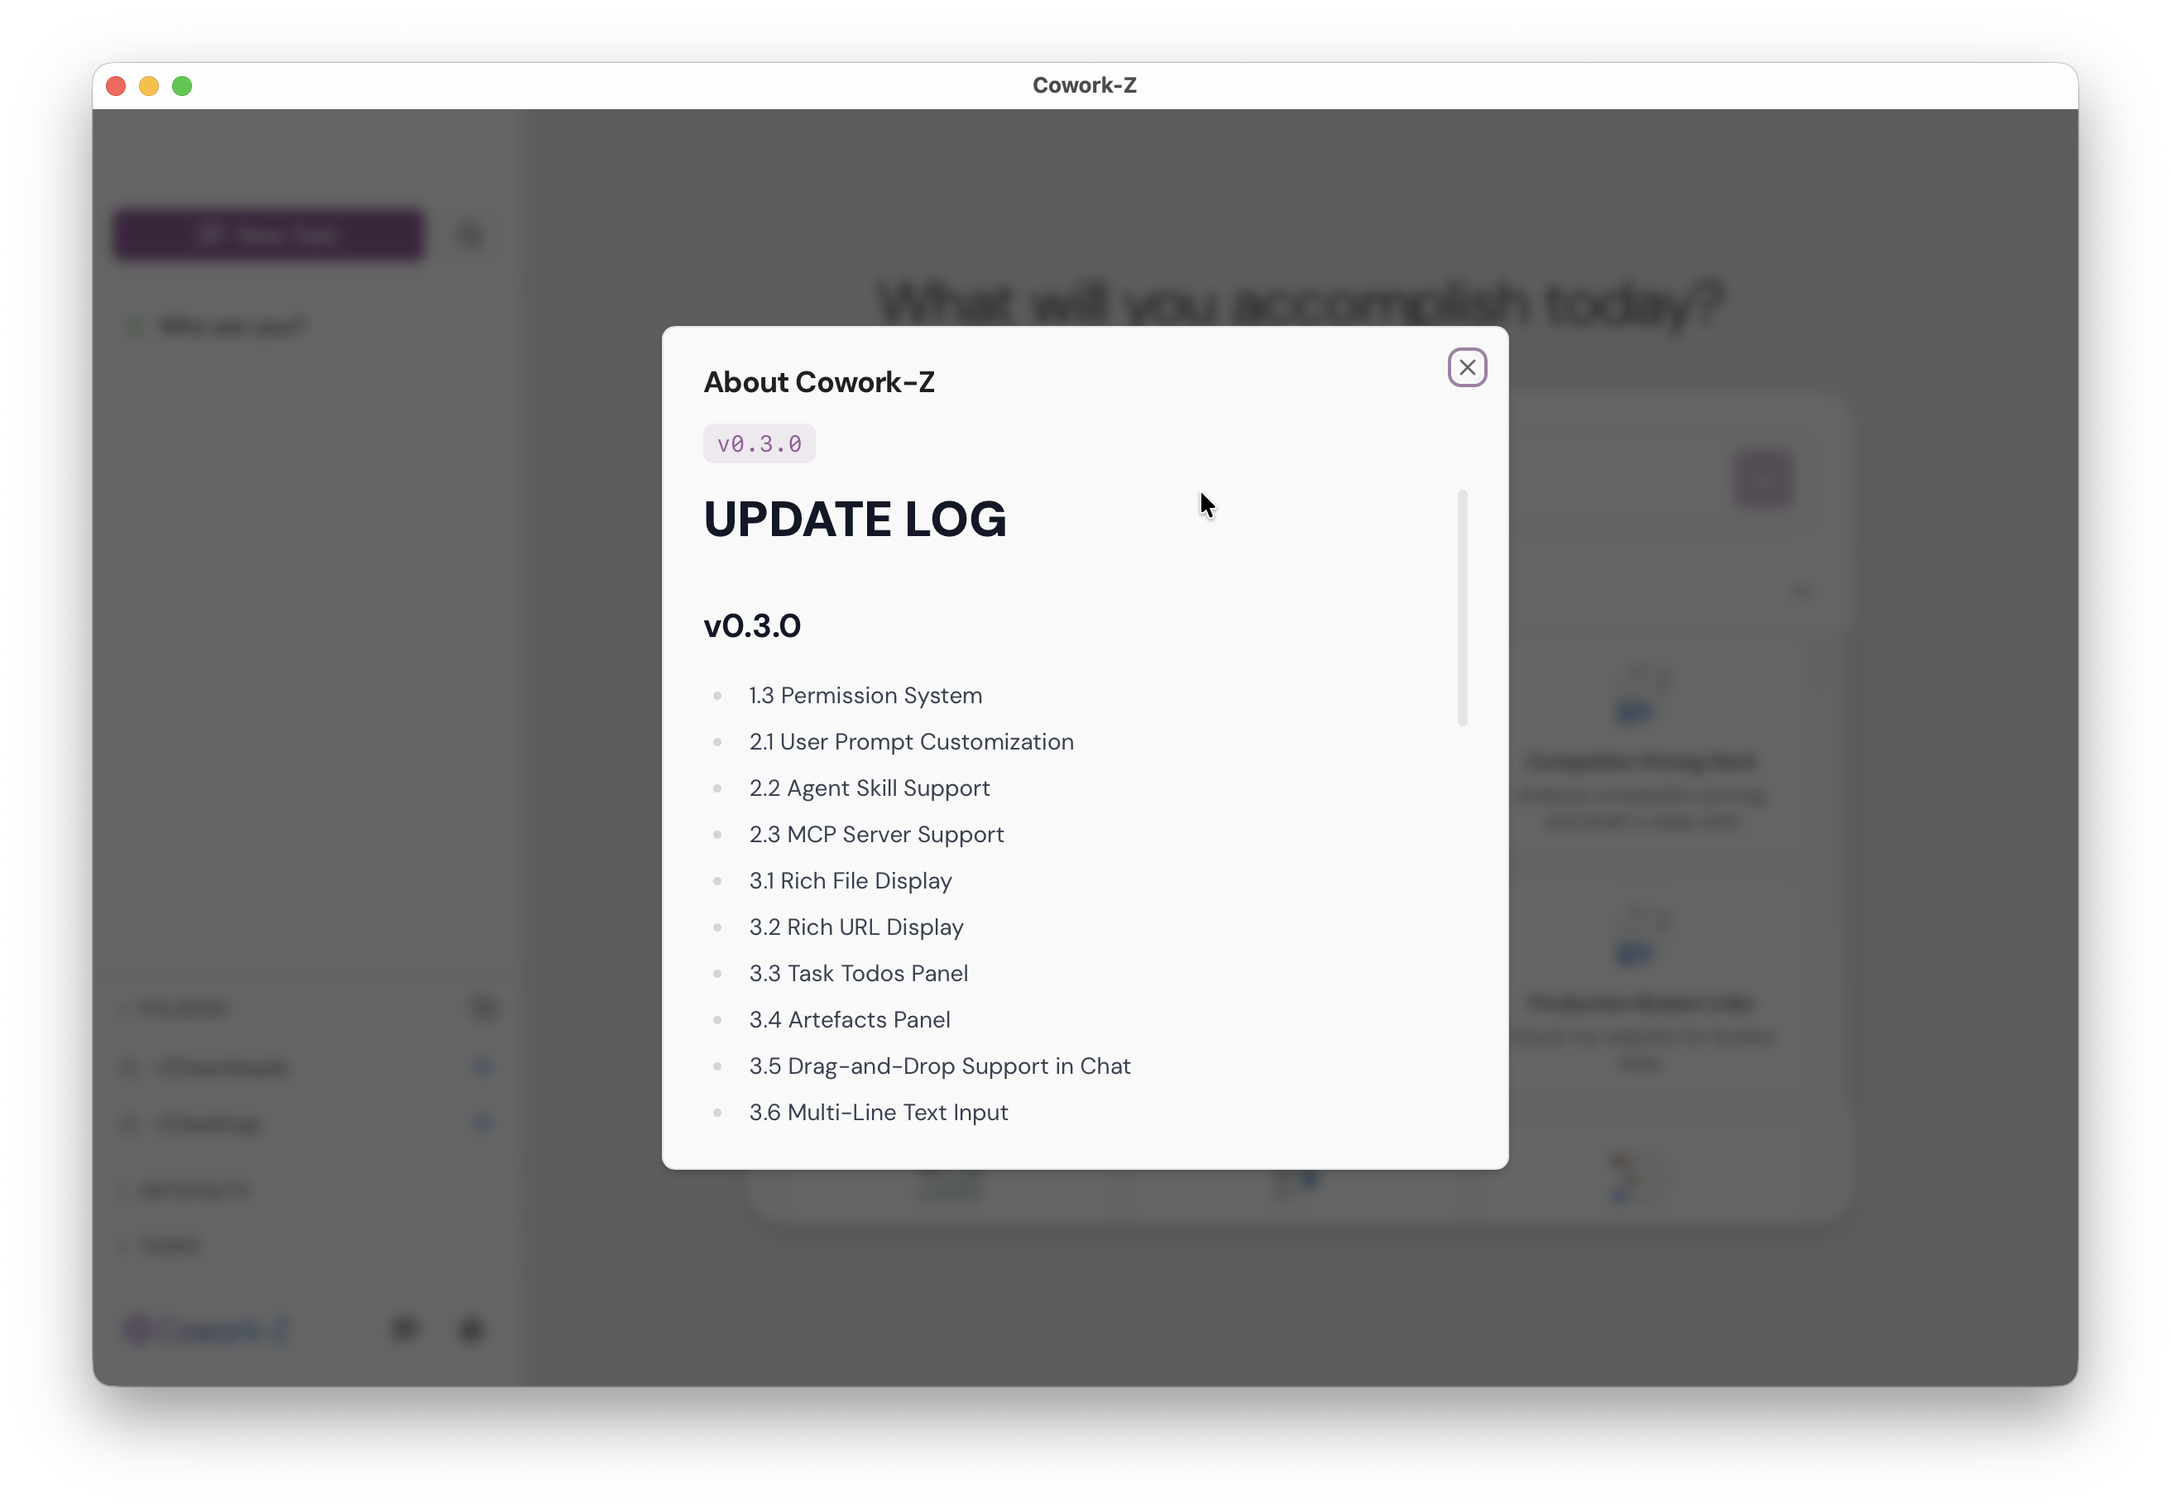
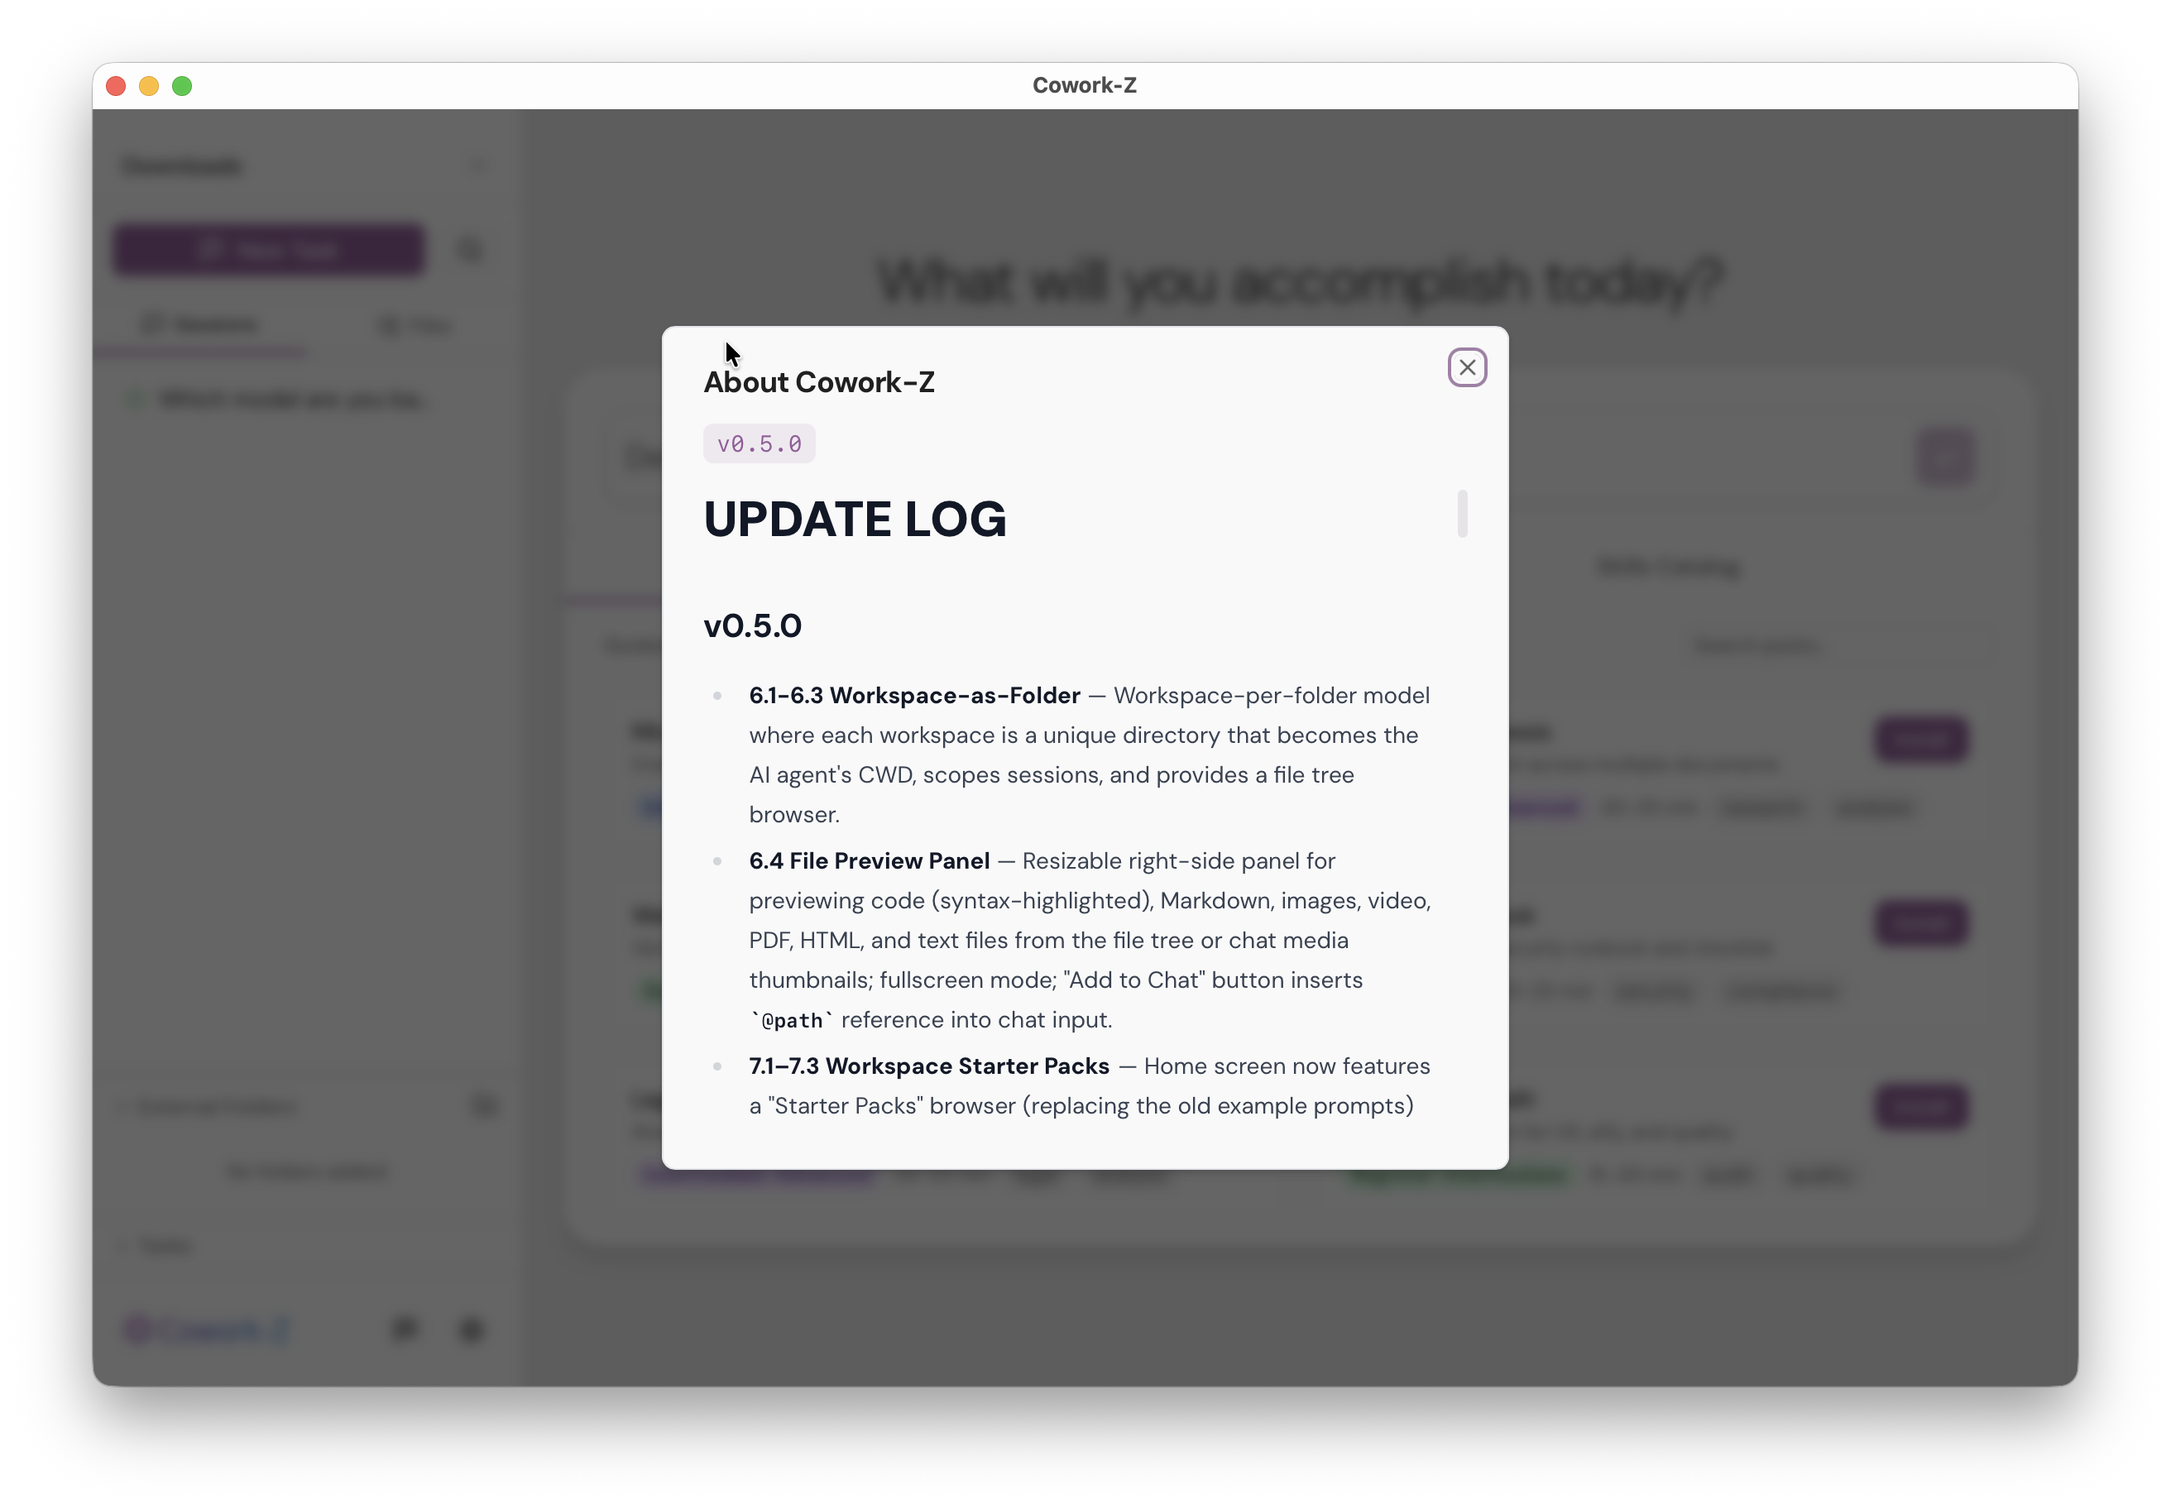
doc: Update product vision and README with screenshots

diff --git a/README.md b/README.md
@@ -5,7 +5,7 @@
 <h1 align="center">Cowork-Z</h1>
 
 <p align="center">
-  <strong>A local-first desktop agent that brings AI to your files and workflows — without compromising privacy.</strong>
+  <strong>A local-first AI workspace that keeps your work private, organized, and ready to run.</strong>
 </p>
 
 <p align="center">
@@ -22,36 +22,34 @@
 
 ## Why Cowork-Z?
 
-Most AI tools force an uncomfortable choice: **upload your sensitive work to cloud services, or forgo AI assistance entirely**.
+Most AI tools force you to choose between capability and privacy — and leave you rebuilding context from scratch every time. Cowork-Z takes a different approach.
 
-Cowork-Z eliminates this tradeoff. It's a desktop app where AI agents run entirely on your machine — accessing your local files, executing commands in your environment, and integrating with your tools — all while keeping your data under your control.
-
-Whether you're a developer protecting proprietary code, a researcher working with sensitive data, or a team that needs auditability and control, Cowork-Z delivers AI-powered productivity without the privacy compromise.
+Each project lives in its own workspace: one folder, all your files, sessions, and agent history in one place. Your data never leaves your machine. And a built-in Skills Catalog and Starter Packs mean you're productive in minutes, not hours.
 
 ---
 
 ## Features
 
-### Multi-Provider Flexibility
+### 🔒 Private by design
+
+#### Multi-Provider Flexibility
 
 Connect to **13+ AI providers** and switch between them at any time:
 
-**Direct API** — Anthropic, OpenAI, Google Gemini, xAI, DeepSeek, Z.AI
-**Cloud Platforms** — AWS Bedrock, Azure AI Foundry
-**Local Models** — Ollama
+**Direct API** — Anthropic, OpenAI, Google Gemini, xAI, DeepSeek, Z.AI\
+**Cloud Platforms** — AWS Bedrock, Azure AI Foundry\
+**Local Models** — Ollama\
 **Proxy Services** — OpenRouter, LiteLLM
 
 Credentials are stored in the **OS Keychain** (macOS Keychain, Windows Credential Manager, Linux Secret Service) — never in plain text files.
 
 <p align="center">
-  <img src="assets/Screenshot_Settings.png" alt="Cowork-Z — Provider Settings" width="700" />
-  <br />
-  <em>Choose from 13+ AI providers — credentials stored securely in the OS Keychain</em>
+  <img src="assets/Screenshot_MultiProvider.png" alt="Cowork-Z — Provider Settings" width="700" />
 </p>
 
-### Sandboxed Permissions
+#### Sandboxed Permissions
 
-You control exactly what the agent can access:
+Your files never leave your machine. The agent reads and writes locally — nothing is uploaded to cloud servers. You control exactly what it can access:
 
 - **Folder-level access controls** — grant read or read-write per directory
 - **Runtime permission prompts** — if the agent needs a folder you haven't approved, it asks first
@@ -59,38 +57,76 @@ You control exactly what the agent can access:
 
 <p align="center">
   <img src="assets/Screenshot_PermissionRequest.png" alt="Cowork-Z — Runtime permission dialog" width="700" />
-  <br />
-  <em>The agent asks before accessing directories outside your approved list</em>
 </p>
 
-### Rich Chat Experience
+---
+
+### 📁 One project at a time
+
+#### Workspace-per-Project
+
+Work is organized around workspaces — one folder, one focus. Each workspace holds its own files, chat sessions, permissions, and agent history in one place. Switch workspaces to switch projects; nothing bleeds between them.
+
+- **File tree browser** — lazy-loaded sidebar tree with real-time filesystem watching and search
+- **File preview panel** — preview code (syntax-highlighted), Markdown, images, video, PDF, and HTML without leaving the app; supports fullscreen mode
+- **"Add to Chat"** — insert any file as an `@path` reference into the chat input directly from the preview panel
+
+<p align="center">
+  <img src="assets/Screenshot_Workspace.png" alt="Cowork-Z — Workspace" width="700" />
+</p>
+
+#### Rich Chat Experience
 
 - **Inline file previews** — file paths render as clickable links with thumbnails for images and video
 - **Image gallery** — click any thumbnail to open an in-app preview with "Show in Finder"
 - **URL previews** — links in agent responses open in your default browser
-- **Drag-and-drop** — drop files or folders from Finder into the chat to reference them
+- **Drag-and-drop** — drop files or folders from Finder or the file tree into the chat to reference them
 - **Multi-line input** — compose detailed prompts with `Shift+Enter`
 - **Todo tracking** — see the agent's task progress in a sidebar panel with a progress bar
 - **Artefacts panel** — all files the agent creates or modifies are tracked in the sidebar
 
 <p align="center">
-  <img src="assets/Screenshot_ImageGallery.png" alt="Cowork-Z — In-app image preview" width="700" />
-  <br />
-  <em>Click any image thumbnail to preview it without leaving the app</em>
+  <img src="assets/Screenshot_MediaFileInChat.png" alt="Cowork-Z — Media files in chat" width="700" />
 </p>
 
-### Extensible with Skills & MCP Servers
+---
 
-- **Skills** — drop a `SKILL.md` file into `~/.config/opencode/skills/<name>/` to teach the agent new capabilities. Auto-discovered, no restart needed.
-- **MCP Servers** — connect external tools and data sources (databases, APIs, file systems) via the [Model Context Protocol](https://opencode.ai/docs/mcp-servers/). Supports both local (command) and remote (URL) servers.
+### ⚡ Ready in minutes
+
+#### Starter Packs
+
+Hit the ground running with **6 guided workspace packs** covering writing, research, security audits, legal review, and more. Each pack bundles template files, prompts, and step-by-step guidance:
+
+1. Browse packs on the Home screen and click **Install**
+2. Choose a destination folder — the app creates the workspace automatically
+3. The agent opens `START_HERE.md` and walks you through the task
+
+No configuration, no setup from scratch.
 
 <p align="center">
-  <img src="assets/Screenshot_Skills.png" alt="Cowork-Z — Skills discovery and management" width="700" />
-  <br />
-  <em>Skills are auto-discovered from your config directory — no restart needed</em>
+  <img src="assets/Screenshot_StarterPacks.png" alt="Cowork-Z — Skills Catalog" width="700" />
 </p>
 
-### Desktop-Native Experience
+#### Skills Catalog
+
+A built-in catalog of reusable AI skill templates, installable with one click:
+
+- **Category tabs** — browse by domain (Marketing, Sales, Enterprise, and more)
+- **Search** — filter by name, description, or category in real-time
+- **One-click install** — skills are copied to `~/.config/opencode/skills/` and auto-discovered by the agent
+- **Update detection** — SHA256 checksums flag outdated skills with a Re-install prompt
+
+<p align="center">
+  <img src="assets/Screenshot_SkillsCatalog.png" alt="Cowork-Z — Skills Catalog" width="700" />
+</p>
+
+#### Extensible with MCP Servers
+
+Connect external tools and data sources via the [Model Context Protocol](https://opencode.ai/docs/mcp-servers/). Supports both local (command) and remote (URL) servers, configurable from the Settings panel.
+
+---
+
+### 🖥 Desktop-Native Experience
 
 - **Keyboard shortcuts** — `Cmd+N` new task, `Cmd+,` settings, `Escape` cancel
 - **Multiple themes** — light and dark modes with runtime switching
@@ -160,19 +196,17 @@ opencode --version
 3. Pick an AI provider (e.g. Anthropic, OpenAI, Google Gemini, Ollama ...)
 4. Enter your API key — credentials are stored securely in the **OS Keychain**, never in plain text
 
-### 3. Set up Skills (optional)
+### 3. Install a Starter Pack (optional)
 
-Skills extend the agent with domain-specific knowledge. Cowork-Z supports the [OpenCode Skills spec](https://opencode.ai/docs/skills/) and auto-discovers skill files from:
+From the Home screen, browse the Starter Packs section, pick a pack that fits your task, and click **Install**. The app creates a workspace and starts the agent automatically.
 
-```
-~/.config/opencode/skills/<name>/SKILL.md
-```
+### 4. Install Skills (optional)
 
-To add a skill, drop a `SKILL.md` file into a named folder at that path. The agent picks it up automatically — no restart needed.
+Browse the Skills Catalog on the Home screen. Click **Install** on any skill to add it to your OpenCode skills directory — the agent picks it up automatically, no restart needed.
 
 > **Tip:** The Settings panel shows the skills folder path as a clickable link so you can open it in Finder.
 
-### 4. Configure MCP Servers (optional)
+### 5. Configure MCP Servers (optional)
 
 [MCP (Model Context Protocol)](https://opencode.ai/docs/mcp-servers/) servers give the agent access to external tools and data sources — databases, APIs, file systems, and more.
 
@@ -194,7 +228,7 @@ To add a skill, drop a `SKILL.md` file into a named folder at that path. The age
 3. Both **local** (command-based) and **remote** (URL-based) servers are supported
 4. Servers can be enabled/disabled individually at any time
 
-### 5. Start a task
+### 6. Start a task
 
 Type a prompt in the launcher (or press **`Cmd + N`**) and hit Enter. The agent will plan, execute, and report back — all running locally on your machine.
 
@@ -210,17 +244,6 @@ Type a prompt in the launcher (or press **`Cmd + N`**) and hit Enter. The agent 
 | Database | SQLite (rusqlite) |
 | Secure storage | OS Keychain (keyring crate) |
 | AI Engine | [OpenCode](https://opencode.ai/) via Node.js sidecar |
-
-### Architecture
-
-```
-┌──────────────────┐      stdin/stdout       ┌─────────────────┐      HTTP/SSE      ┌──────────────────┐
-│   Tauri (Rust)   │◄──── JSON-line IPC ────►│  Node.js Sidecar │◄──────────────────►│  OpenCode Server │
-│   + React/TS UI  │                         │                  │                    │  (AI Engine)     │
-└──────────────────┘                         └─────────────────┘                    └──────────────────┘
-```
-
-For detailed architecture documentation — including C4 diagrams, IPC protocol specs, security model, data architecture, and Architecture Decision Records — see [docs/architecture/](docs/architecture/README.md).
 
 ---
 
@@ -291,7 +314,6 @@ See the [requirements document](docs/specs/cowork-z/requirements.md) for the ful
 
 - [x] Windows testing and polish
 - [ ] Database encryption at rest (Req 5.2.2)
-- [ ] OpenCode Server API Skill for agent self-introspection (Req 2.4)
 
 Track progress on the [issues page](https://github.com/kevinlin/cowork-z/issues) or check the [changelog](UPDATE_LOG.md) for recent releases.
 
@@ -299,7 +321,8 @@ Track progress on the [issues page](https://github.com/kevinlin/cowork-z/issues)
 
 ## Acknowledgments
 
-Cowork-Z's UI is based on [Accomplish](https://github.com/accomplish-ai/accomplish). Thank you to the Accomplish team for their work on the original implementation.
+- Cowork-Z's UI is based on [Accomplish](https://github.com/accomplish-ai/accomplish). Thanks to the Accomplish team for their work on the original implementation.
+- The Workspace, Starter Packs and Skills Catalog features were inspired by and heavily referenced from [Cowork-Z](https://github.com/frumu-ai/Cowork-Z). Thanks to the Cowork-Z team for pioneering this pattern.
 
 ---
 

diff --git a/docs/specs/cowork-z/requirements.md b/docs/specs/cowork-z/requirements.md
@@ -2,20 +2,15 @@
 
 ## Product Vision
 
-**Cowork-Z is a local-first desktop agent that brings AI assistance to your files and workflows without compromising privacy.**
+**Cowork-Z is a local-first AI workspace that keeps your work private, organized, and ready to run.**
 
-Most AI tools force an uncomfortable choice: upload your sensitive work to cloud services, or forgo AI assistance entirely. Cowork-Z eliminates this tradeoff by running entirely on your machine. The agent accesses your local files, executes commands in your environment, and integrates with your tools—all while keeping your data under your control.
+Most AI tools force you to choose between capability and privacy — and leave you rebuilding context from scratch every time. Cowork-Z takes a different approach: your data stays on your machine, each project gets its own focused workspace with files and sessions co-located, and a built-in library of skills and starter packs means you're productive in minutes, not hours.
 
-**Built for privacy-conscious power users and security-minded teams**, Cowork-Z provides a sandboxed environment where AI agents can work autonomously with granular permission controls. You decide exactly what folders the agent can access and what actions it can take.
+**Private by design** — Your files never leave your machine. The agent reads and writes locally; nothing is uploaded to cloud servers. API keys live in the OS keychain and never touch the frontend. Choose from 13+ providers — Anthropic, OpenAI, Ollama, and more — based on the task, not the privacy policy.
 
-**Key capabilities:**
-- **Local-first architecture** — All agent execution happens on your machine; no cloud uploads required
-- **Multi-provider flexibility** — Switch between 13+ AI providers (Anthropic, OpenAI, Ollama, etc.) based on task requirements
-- **Extensible workflows** — Add custom skills and MCP server integrations to tailor the agent to your specific needs
-- **Parallel task execution** — Run multiple independent tasks simultaneously to accelerate complex workflows
-- **Transparent & auditable** — Full visibility into agent actions, tool calls, and file access with session history
+**One project at a time** — Work is organized around workspaces: one folder, one focus. Each workspace holds its own files, chat sessions, permissions, and agent history in one place. Switch workspaces to switch projects — nothing bleeds between them.
 
-Whether you're a developer protecting proprietary code, a researcher working with sensitive data, or an organization that needs auditability and control, Cowork-Z delivers AI-powered productivity without the privacy compromise.
+**Ready in minutes** — No configuration marathons. A built-in Skills Catalog provides reusable AI behaviors you can install with one click. Starter Packs bundle files, prompts, and step-by-step guidance for real-world tasks — writing, research, security audits, legal review, and more.
 
 ---
 
